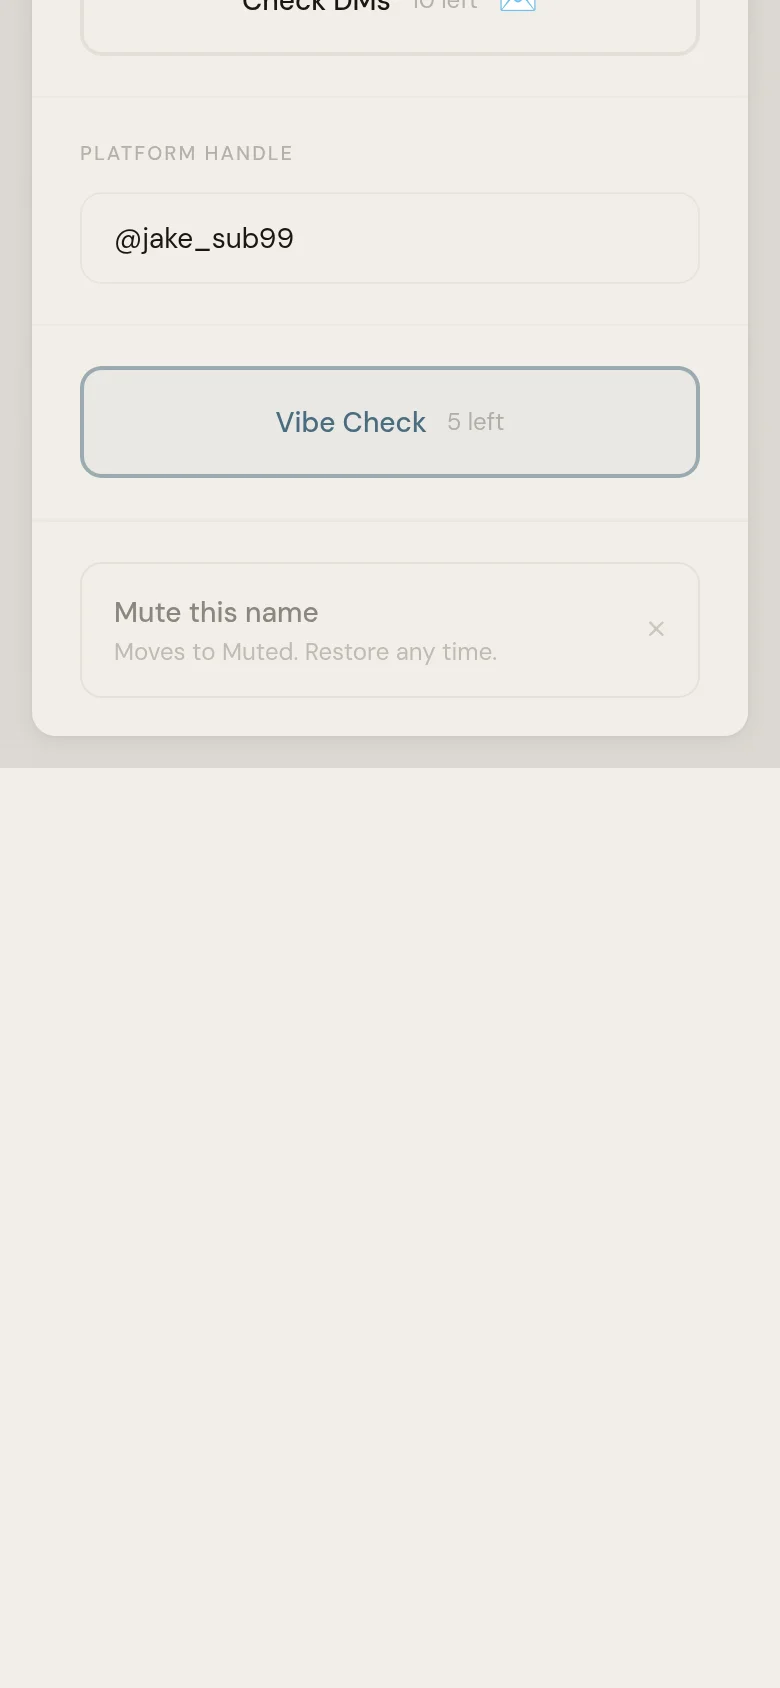
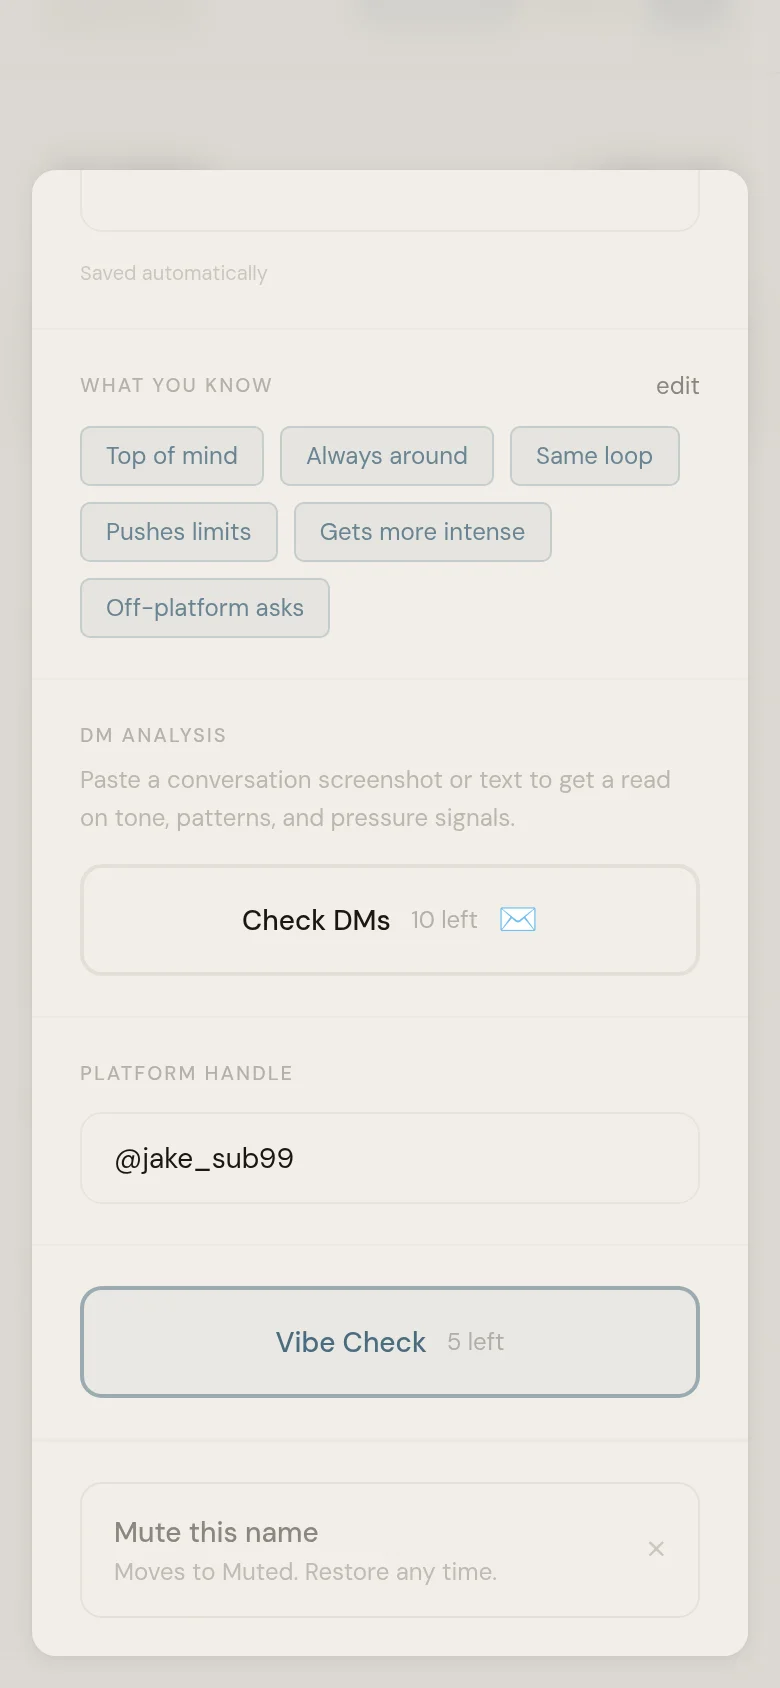
fix: screenshot 04 — full drawer image + object-position bottom to show Vibe Check section

diff --git a/index.html b/index.html
@@ -458,6 +458,9 @@
     .screen-card--bottom2 img {
       object-position: center 50%;
     }
+    .screen-card--vibe img {
+      object-position: center bottom;
+    }
     .screen-caption {
       padding: 16px 18px 20px;
       border-top: 1px solid var(--border);
@@ -854,7 +857,7 @@
 <span>Paste a conversation or upload a screenshot.</span>
 </div>
 </div>
-<div class="screen-card">
+<div class="screen-card screen-card--vibe">
 <picture>
 <source srcset="screenshots/04_vibe_check.webp" type="image/webp"/>
 <img alt="Vibe Check locked — add handle to unlock" loading="lazy" src="screenshots/04_vibe_check.png"/>
